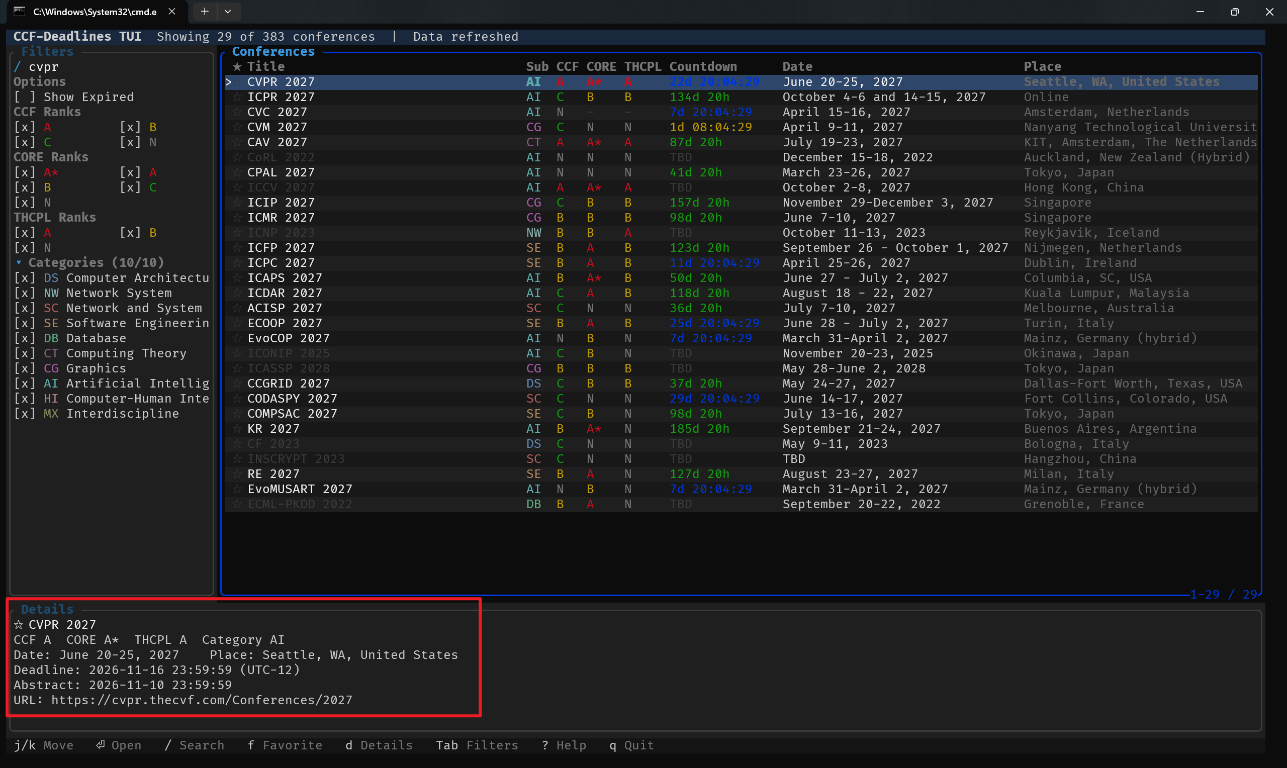
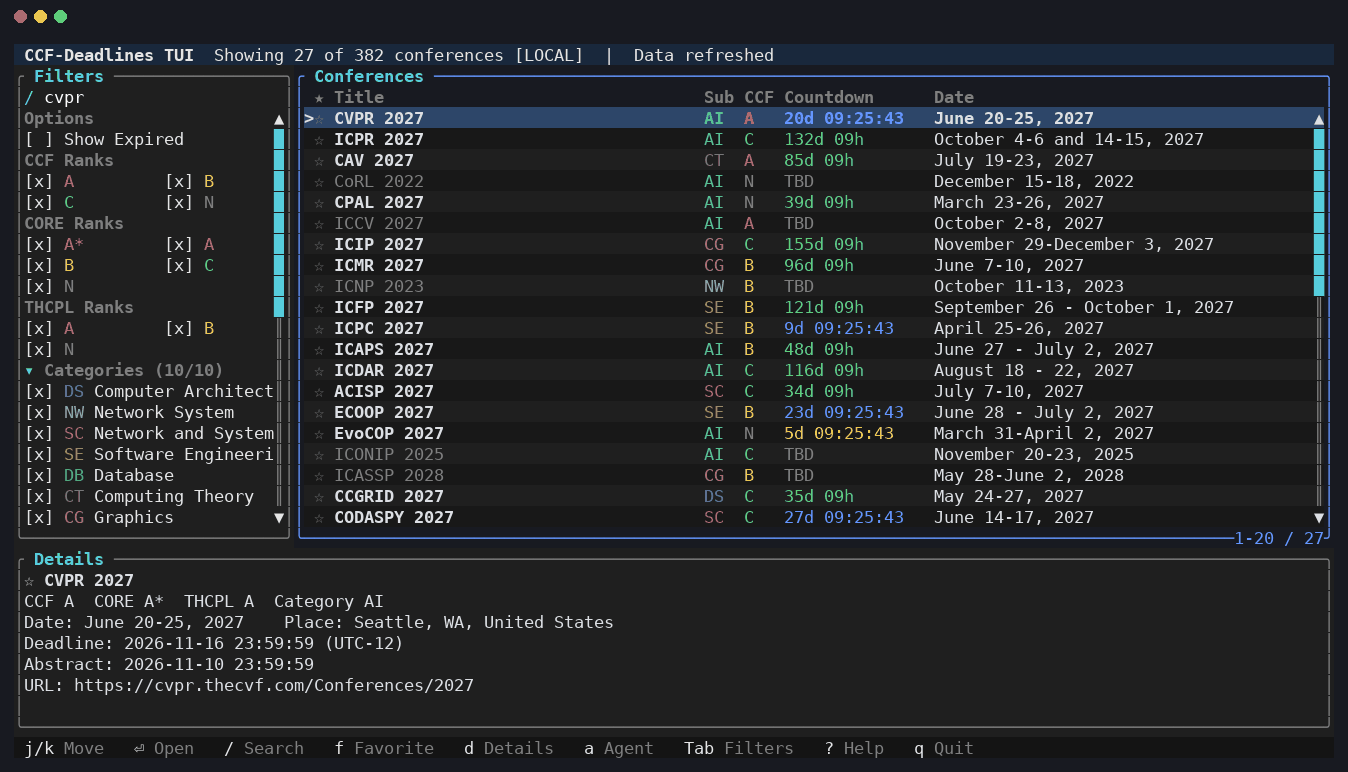
docs: add README badges and a recorded demo
- Badges for CI, latest release, crates.io version and downloads, MSRV,
  platforms and license.
- assets/demo.gif: a 26 s recording of the real release binary (table,
  search, details, offline recommendation agent, card details and "why").
- Refreshed screenshots plus a new agent screenshot, folded into a
  <details> block.
- scripts/demo/record.py + scenario.json regenerate all of them: the binary
  runs in a pty with an empty HOME, pyte emulates the screen and Pillow draws
  the frames, ffmpeg assembles the GIF.

Claude-Session: https://claude.ai/code/session_01MgVv6q9HguDAeDoEJEWMLY

Changed region(s): [[0.0, 0.0, 0.9946, 1.0], [0.404, 0.2188, 0.4662, 0.6562]]

diff --git a/scripts/demo/record.py b/scripts/demo/record.py
@@ -1,0 +1,155 @@
+"""Record the README demo from the real ccfddl-tui binary.
+
+The binary runs in a pseudo-terminal with an empty temporary HOME (no profile,
+no model, so the agent works offline), the scripted keys in scenario.json are
+sent, the screen is emulated with pyte and every frame is drawn with Pillow.
+Writes the named screenshots and demo.gif (via ffmpeg) to <outdir>.
+
+    pip install pyte pillow fonttools      # plus ffmpeg, DejaVu and Noto CJK fonts
+    cargo build --release
+    python3 scripts/demo/record.py target/release/ccfddl-tui /tmp/demo scripts/demo/scenario.json
+
+Unix only (uses pty). Copy the results into assets/ by hand.
+"""
+import os, pty, select, sys, time, struct, fcntl, termios, tempfile, json
+import pyte
+from PIL import Image, ImageDraw, ImageFont
+
+COLS, ROWS = 132, 34
+CW, CH = 10, 21
+MONO = ImageFont.truetype("/usr/share/fonts/truetype/dejavu/DejaVuSansMono.ttf", 17)
+MONOB = ImageFont.truetype("/usr/share/fonts/truetype/dejavu/DejaVuSansMono-Bold.ttf", 17)
+CJK = ImageFont.truetype("/usr/share/fonts/opentype/noto/NotoSansCJK-Regular.ttc", 17)
+CJKB = ImageFont.truetype("/usr/share/fonts/opentype/noto/NotoSansCJK-Bold.ttc", 17) if os.path.exists("/usr/share/fonts/opentype/noto/NotoSansCJK-Bold.ttc") else CJK
+
+from fontTools.ttLib import TTFont, TTCollection
+def cmap(p):
+    f = TTCollection(p).fonts[0] if p.endswith("ttc") else TTFont(p)
+    return set(f.getBestCmap())
+MONO_CM = cmap("/usr/share/fonts/truetype/dejavu/DejaVuSansMono.ttf")
+SANS = ImageFont.truetype("/usr/share/fonts/truetype/dejavu/DejaVuSans.ttf", 16)
+SANS_CM = cmap("/usr/share/fonts/truetype/dejavu/DejaVuSans.ttf")
+HEX = {"0000ee": (100, 150, 255), "cd0000": (238, 96, 96), "00cd00": (96, 210, 120),
+       "cdcd00": (232, 200, 80), "00cdcd": (86, 205, 220), "cd00cd": (200, 120, 220)}
+BG = (24, 26, 33)
+FG = (220, 223, 228)
+NAMED = {
+    "black": (40, 42, 54), "red": (237, 106, 94), "green": (92, 205, 120),
+    "brown": (245, 196, 82), "yellow": (245, 196, 82), "blue": (98, 160, 234),
+    "magenta": (198, 120, 221), "cyan": (86, 200, 216), "white": (220, 223, 228),
+    "brightblack": (110, 116, 130), "brightred": (255, 128, 118), "brightgreen": (120, 230, 150),
+    "brightbrown": (255, 220, 120), "brightyellow": (255, 220, 120), "brightblue": (130, 185, 255),
+    "brightmagenta": (220, 150, 240), "brightcyan": (120, 225, 240), "brightwhite": (255, 255, 255),
+}
+
+def color(c, default):
+    if c == "default":
+        return default
+    if c in NAMED:
+        return NAMED[c]
+    if c in HEX:
+        return HEX[c]
+    try:
+        return tuple(int(c[i:i + 2], 16) for i in (0, 2, 4))
+    except Exception:
+        return default
+
+def render(screen, path):
+    pad = 14
+    img = Image.new("RGB", (COLS * CW + 2 * pad, ROWS * CH + 2 * pad + 30), BG)
+    d = ImageDraw.Draw(img)
+    # window chrome
+    for i, c in enumerate([(237, 106, 94), (245, 196, 82), (92, 205, 120)]):
+        d.ellipse((pad + i * 20, 10, pad + i * 20 + 12, 22), fill=c)
+    top = 30 + pad
+    for y in range(ROWS):
+        line = screen.buffer[y]
+        x = 0
+        while x < COLS:
+            ch = line[x]
+            wide = x + 1 < COLS and line[x + 1].data == "" and ch.data not in ("", " ")
+            w = 2 if wide else 1
+            fg, bg = color(ch.fg, FG), color(ch.bg, BG)
+            if ch.reverse:
+                fg, bg = bg, fg
+            px, py = pad + x * CW, top + y * CH
+            if bg != BG:
+                d.rectangle((px, py, px + w * CW - 1, py + CH - 1), fill=bg)
+            t = ch.data
+            if t and t != " ":
+                o = ord(t[0])
+                if o not in MONO_CM and not wide and o in SANS_CM:
+                    d.text((px, py + 1), t, font=SANS, fill=fg)
+                elif o > 0x2E7F or wide or o not in MONO_CM:
+                    f = CJKB if ch.bold else CJK
+                    d.text((px, py - 2), t, font=f, fill=fg)
+                else:
+                    f = MONOB if ch.bold else MONO
+                    d.text((px, py + 1), t, font=f, fill=fg)
+            if ch.underscore:
+                d.line((px, py + CH - 2, px + w * CW, py + CH - 2), fill=fg)
+            x += w
+    img.save(path)
+
+def main():
+    binary, outdir, scenario = sys.argv[1], sys.argv[2], sys.argv[3]
+    steps = json.load(open(scenario))
+    os.makedirs(outdir, exist_ok=True)
+    home = tempfile.mkdtemp()
+    env = {"HOME": home, "USERPROFILE": home, "TERM": "xterm-256color", "COLORTERM": "truecolor",
+           "PATH": "/usr/bin:/bin", "LANG": "C.UTF-8", "TZ": "Asia/Shanghai"}
+    pid, fd = pty.fork()
+    if pid == 0:
+        os.execve(binary, [binary] + steps.get("args", []), env)
+    fcntl.ioctl(fd, termios.TIOCSWINSZ, struct.pack("HHHH", ROWS, COLS, 0, 0))
+    screen = pyte.Screen(COLS, ROWS)
+    stream = pyte.ByteStream(screen)
+
+    def pump(secs):
+        end = time.time() + secs
+        while True:
+            left = end - time.time()
+            if left <= 0:
+                break
+            r, _, _ = select.select([fd], [], [], left)
+            if r:
+                try:
+                    data = os.read(fd, 65536)
+                except OSError:
+                    return
+                if not data:
+                    return
+                stream.feed(data)
+
+    frames = []
+    n = 0
+    for step in steps["steps"]:
+        if "keys" in step:
+            k = step["keys"].encode().decode("unicode_escape").encode("latin-1") if step.get("esc") else step["keys"].encode()
+            if step.get("type"):
+                for c in step["keys"]:
+                    os.write(fd, c.encode())
+                    pump(0.06)
+                    p = f"{outdir}/f{n:04d}.png"; render(screen, p); frames.append((p, 0.08)); n += 1
+            else:
+                os.write(fd, k)
+        pump(step.get("wait", 0.5))
+        if step.get("hold"):
+            p = f"{outdir}/f{n:04d}.png"; render(screen, p); frames.append((p, step["hold"])); n += 1
+        if step.get("shot"):
+            render(screen, os.path.join(outdir, step["shot"]))
+    os.write(fd, b"q")
+    pump(0.5)
+    with open(f"{outdir}/list.txt", "w") as f:
+        for p, dur in frames:
+            f.write(f"file '{os.path.abspath(p)}'\nduration {dur}\n")
+        f.write(f"file '{os.path.abspath(frames[-1][0])}'\n")
+    print(len(frames), "frames")
+    import subprocess
+    subprocess.run(["ffmpeg", "-loglevel", "error", "-y", "-f", "concat", "-safe", "0",
+                    "-i", f"{outdir}/list.txt", "-vf",
+                    "fps=12,split[a][b];[a]palettegen=max_colors=128:stats_mode=diff[p];"
+                    "[b][p]paletteuse=dither=none:diff_mode=rectangle",
+                    "-loop", "0", f"{outdir}/demo.gif"], check=True)
+
+main()

diff --git a/README.md b/README.md
@@ -1,5 +1,13 @@
 # CCF-Deadlines TUI (Rust)
 
+[![CI](https://github.com/tkzzzzzz6/ccfddl-tui-rs/actions/workflows/ci.yml/badge.svg?branch=master)](https://github.com/tkzzzzzz6/ccfddl-tui-rs/actions/workflows/ci.yml)
+[![Release](https://img.shields.io/github/v/release/tkzzzzzz6/ccfddl-tui-rs?logo=github)](https://github.com/tkzzzzzz6/ccfddl-tui-rs/releases/latest)
+[![crates.io](https://img.shields.io/crates/v/ccfddl-tui.svg?logo=rust)](https://crates.io/crates/ccfddl-tui)
+[![Downloads](https://img.shields.io/crates/d/ccfddl-tui.svg)](https://crates.io/crates/ccfddl-tui)
+[![MSRV](https://img.shields.io/badge/rustc-1.88%2B-orange.svg)](Cargo.toml)
+[![Platforms](https://img.shields.io/badge/platform-Linux%20%7C%20macOS%20%7C%20Windows-lightgrey.svg)](#installation)
+[![License: MIT](https://img.shields.io/badge/license-MIT-blue.svg)](LICENSE)
+
 A terminal UI for tracking CCF-ranked conference deadlines with live countdowns.
 
 This repository is an independently maintained derivative of
@@ -11,8 +19,14 @@ snapshots generated from the upstream code.
 
 ## Demo
 
-These images are rendered from real application frames using the embedded
-conference data.
+A real recording of the release binary (embedded data, no API key): browse the
+table, search for CVPR, open its details, then ask the recommendation agent
+"我做多模态大模型，2027-03-01 能写完", open a card and ask why it was picked.
+
+![ccfddl-tui demo: table, search, details and the recommendation agent](assets/demo.gif)
+
+<details>
+<summary>Screenshots</summary>
 
 ### Main interface
 
@@ -25,6 +39,12 @@ conference data.
 ### Conference details
 
 ![CVPR conference details and deadline information](assets/demo-details.png)
+
+### Recommendation agent
+
+![Offline recommendations grouped into stretch, main and safe picks, with one card expanded](assets/demo-agent.png)
+
+</details>
 
 ## Status
 
@@ -41,8 +61,6 @@ conference data.
 | Conference recommendation agent | offline rules, optional LLM tool loop, TUI panel |
 
 ## Installation
-
-[![crates.io](https://img.shields.io/crates/v/ccfddl-tui.svg)](https://crates.io/crates/ccfddl-tui)
 
 Install from [crates.io](https://crates.io/crates/ccfddl-tui) with Cargo. This
 requires a Rust toolchain ([rustup.rs](https://rustup.rs)) and works on macOS
@@ -384,10 +402,18 @@ cargo run --example snapshot -- --wide --agent "computer vision"  # ... agent pa
 ```
 
 The `snapshot` example renders through `TestBackend`, so it needs no terminal and
-is the quickest way to eyeball a layout change. The README demo images are real
-application-window screenshots, not generated previews. To refresh them, capture
-the main, search and details views and save the PNGs as `assets/demo-main.png`,
-`assets/demo-search.png`, and `assets/demo-details.png`.
+is the quickest way to eyeball a layout change. The README demo is recorded from the real
+release binary, not generated previews. `scripts/demo/record.py` runs it in a
+pseudo-terminal with an empty `HOME`, sends the keys in
+`scripts/demo/scenario.json` and renders every frame (Unix; needs `pyte`,
+`pillow`, `fonttools`, `ffmpeg`, DejaVu and Noto CJK fonts):
+
+```bash
+cargo build --release
+python3 scripts/demo/record.py target/release/ccfddl-tui /tmp/demo scripts/demo/scenario.json
+# then copy demo.gif and main.png / search.png / details.png / agent-card.png
+# to assets/demo.gif and assets/demo-{main,search,details,agent}.png
+```
 
 `tests/fixtures/gen_golden.py` regenerates `tests/fixtures/golden.json` from the
 Python implementation; re-run it only when the Python behaviour itself changes.
